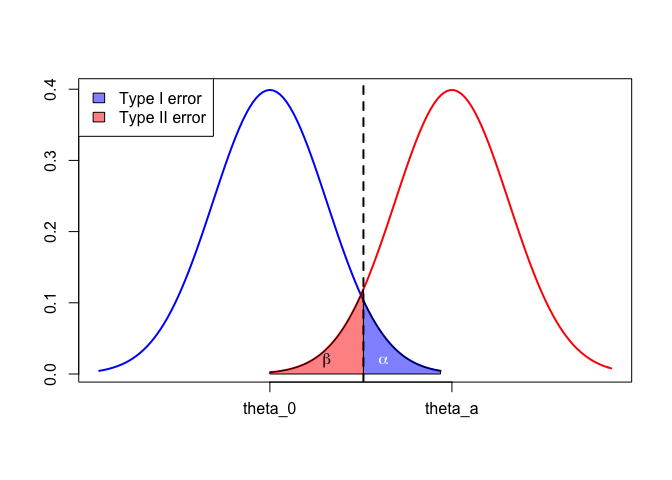
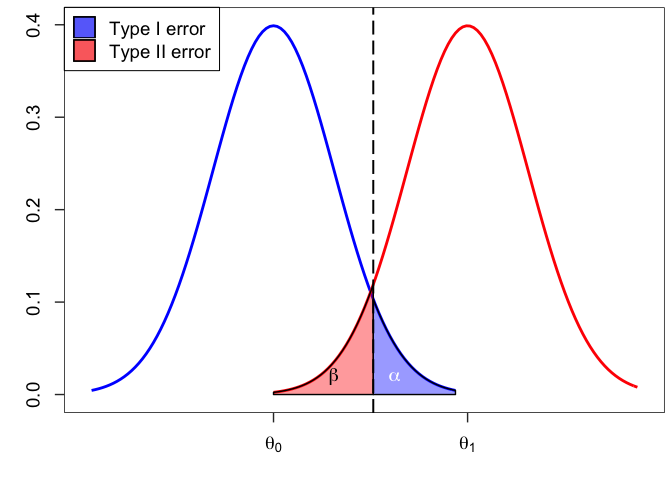
Assignment4 Lab4

diff --git a/assignment4_Lab4.md b/assignment4_Lab4.md
@@ -9,25 +9,7 @@ Taehoon Ha
 
 ### 3. Write the R code using ggplot function to recreate the graph from the Lecture 8 notes
 
-``` r
-curve(dnorm, from=-3, to=3, xlim=c(-3, 6), lwd=2, col=4, axes=FALSE, xlab=NA, ylab=NA)
-curve(dnorm(x, mean=3.2), add=TRUE, col=2, lwd=2, from=0, to=6)
-coord.x <- c(qnorm(0.95), seq(qnorm(0.95), 0, by=-0.01), 0)
-coord.y <- c(0, dnorm(coord.x[-c(1, length(coord.x))], mean=3.2), 0) 
-polygon(coord.x, coord.y, col=rgb(1, 0, 0, 0.5)) 
-coord.x <- c(qnorm(0.95), seq(qnorm(0.95), 3, by=0.01), 3) 
-coord.y <- c(0, dnorm(coord.x[-c(1, length(coord.x))]), 0) 
-polygon(coord.x, coord.y, col=rgb(0, 0, 1, 0.5)) 
-abline(v = qnorm(0.95), lty=2, lwd=2) 
-text(1, 0.02, labels = expression(beta)) 
-text(2, 0.02, labels = expression(alpha), col = "white") 
-axis(1, at = c(0, 3.2), labels = c(expression(theta_0), expression(theta_a))) 
-axis(2) 
-box() 
-legend("topleft", c("Type I error", "Type II error"), fill=c(rgb(0, 0, 1, 0.5), rgb(1, 0, 0, 0.5)))
-```
-
-![](assignment4_Lab4_files/figure-markdown_github/unnamed-chunk-1-1.png)
+![assignment4 pic](https://ws1.sinaimg.cn/large/006tNbRwly1fw2hifct7ej30ya0immza.jpg)
 
 ``` r
 ggplot(NULL, aes(x = c(-3, 6), y = c(0, 0.4))) +
@@ -97,10 +79,10 @@ ggplot(NULL, aes(x = c(-3, 6), y = c(0, 0.4))) +
                       label = c("Type I error",
                                 "Type II error")) +
   scale_x_continuous(breaks = c(0, 3.2), 
-                     labels = c("theta_0", "theta_a"))
+                     labels = c(expression(theta[0]), expression(theta[1])))
 ```
 
-![](assignment4_Lab4_files/figure-markdown_github/unnamed-chunk-2-1.png)
+![](assignment4_Lab4_files/figure-markdown_github/unnamed-chunk-1-1.png)
 
 ### 4. Implement a function that will check if a given positive integer is a prime number.
 
